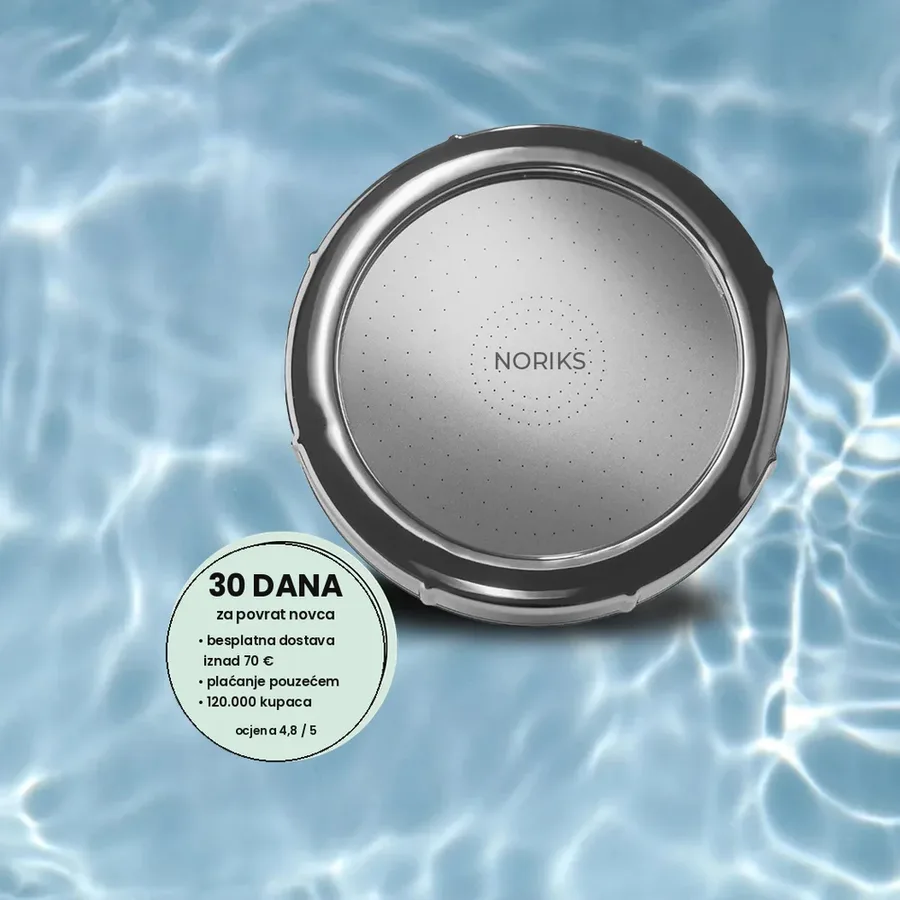
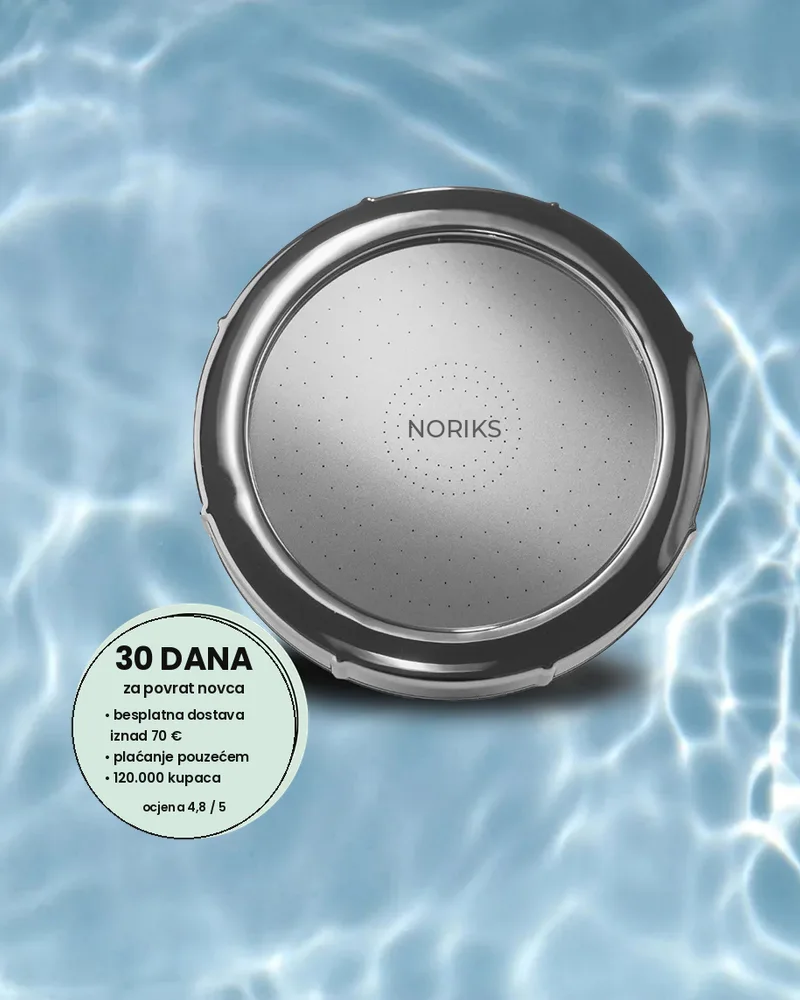
PureShower: zadnja slika v razmerju 4:5 (tus-glava ni vec odrezana), videa prije/poslije in fotografiji kupcev brez okvirja

diff --git a/wp-content/themes/noriks/template_parts/product-bottom/why-tusfilter.php b/wp-content/themes/noriks/template_parts/product-bottom/why-tusfilter.php
@@ -103,6 +103,8 @@ div.wstusfilter__pog{text-align:center;border:1px solid rgba(0,95,44,.35);border
 .wstusfilter__znak{position:absolute;left:14px;bottom:14px;width:74px;height:74px;border-radius:50%;background:#005f2c;color:#fff;display:flex;flex-direction:column;align-items:center;justify-content:center;font-weight:800;font-size:19px;line-height:1}.wstusfilter__znak small{font-size:10px;font-weight:600;margin-top:3px;text-transform:uppercase}
 .wstusfilter__dvoj{aspect-ratio:auto;display:grid;grid-template-columns:1fr 1fr;gap:14px;background:transparent;box-shadow:none;overflow:visible;border-radius:0}
 .wstusfilter__dvoj img{aspect-ratio:9/14;height:auto!important;object-fit:cover;border-radius:16px;box-shadow:0 10px 30px rgba(0,0,0,.10)}
+.wstusfilter__pp,.wstusfilter__dvoj{border:0!important;box-shadow:none!important;background:transparent!important}
+.wstusfilter__ppv,.wstusfilter__dvoj img{box-shadow:0 14px 34px rgba(0,95,44,.22)!important}
 </style>
 <script>
 (function(){document.querySelectorAll('.wstusfilter__kar').forEach(function(k){
